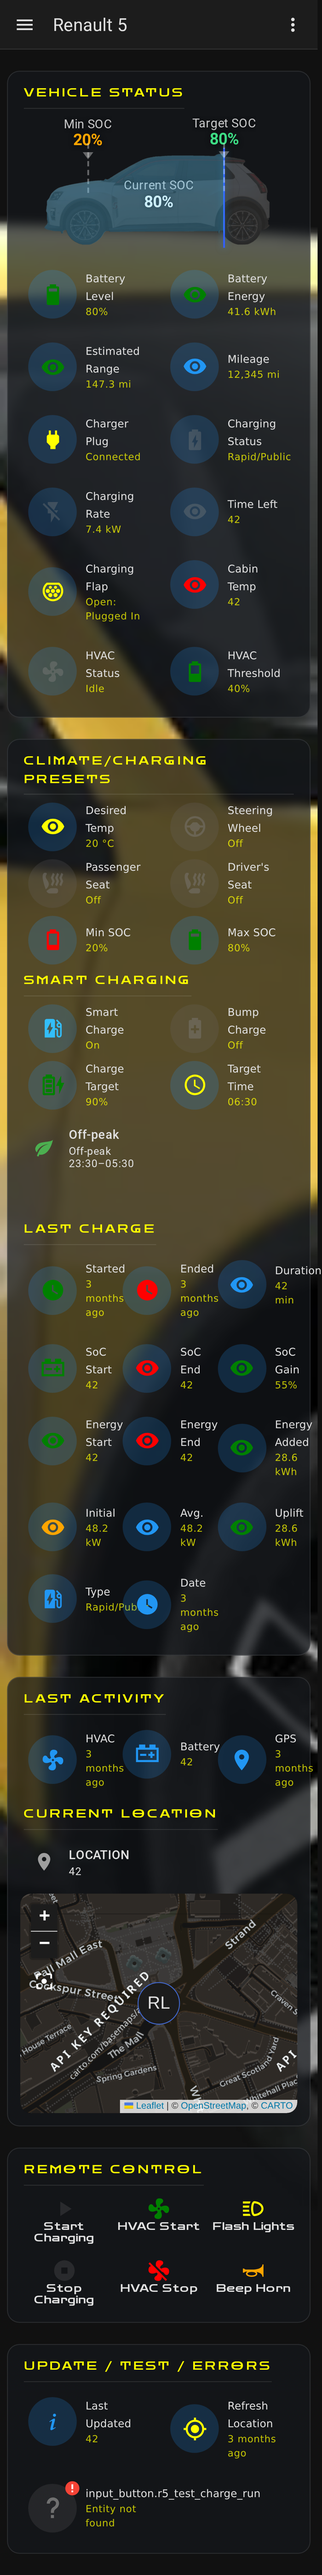
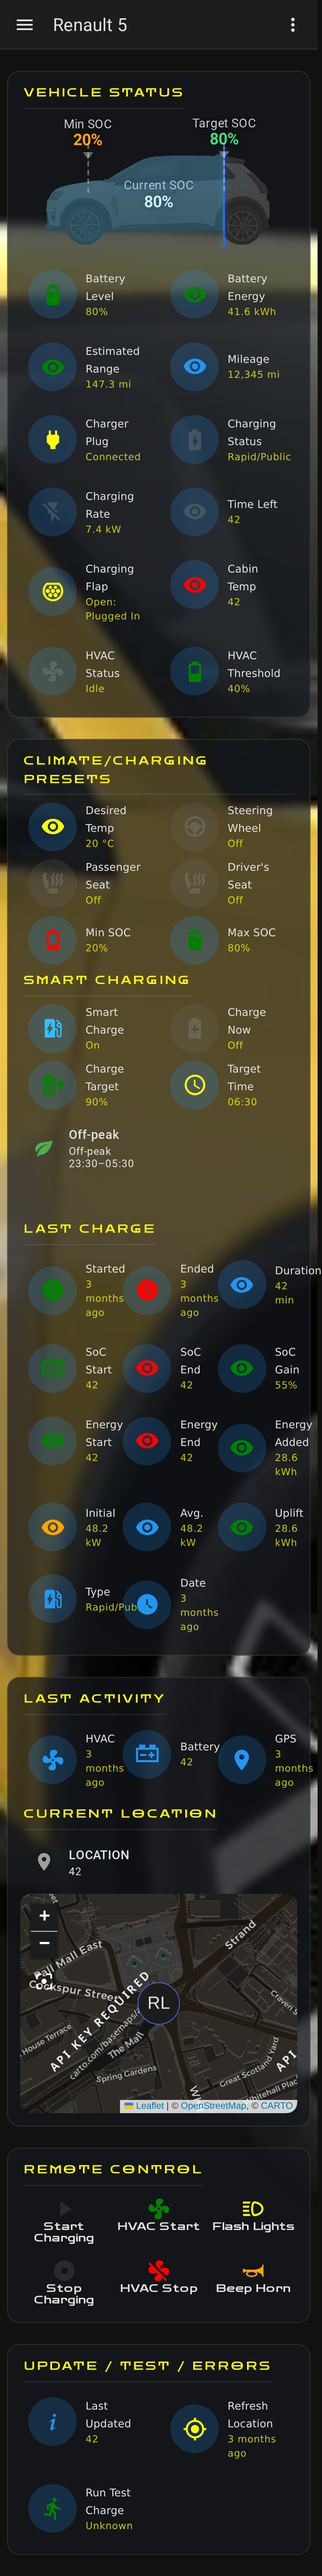
test(ui-tests): seed input_button/input_datetime for test-mode cards (#62)
* test(ui-tests): seed input_button/input_datetime for test-mode cards

The seeder's ENTITY_RE omitted the input_button and input_datetime
domains, so input_button.r5_test_charge_run — the always-visible
"Run Test Charge" button shown when the test panel is idle — was never
seeded, and the docs screenshots rendered it as an "Entity not found"
error card. Add both domains to the extractor and give the input_*
helpers idle defaults (input_boolean=off, input_button=unknown,
input_datetime=fixed) so the test panels stay hidden and the button
renders. Mirror of a290 #97. Validated: full UI harness green (0 issues
across the phone matrix), button now renders in place of the error card.

* chore: refresh dashboard screenshots [refresh-shots]

---------

diff --git a/ui-tests/seed.py b/ui-tests/seed.py
@@ -47,7 +47,8 @@ RESOURCES = [
 
 ENTITY_RE = re.compile(
     r"\b(sensor|binary_sensor|number|device_tracker|switch|button|climate|select|light|"
-    r"cover|lock|fan|person|zone|sun|weather|input_boolean|input_number|input_text)"
+    r"cover|lock|fan|person|zone|sun|weather|input_boolean|input_number|input_text|"
+    r"input_button|input_datetime)"
     r"\.[a-z0-9_]+\b")
 
 # Representative states for the A290 entities — realistic lengths/values to reproduce the
@@ -100,6 +101,11 @@ DEFAULTS = {
     "device_tracker": ("home", {"latitude": 51.5074, "longitude": -0.1278, "gps_accuracy": 8, "source_type": "gps"}),
     "switch": ("off", {}),
     "button": ("unknown", {}),
+    # Test-mode helpers (r5_test_* package): default idle so the panels stay hidden and the
+    # always-visible "Run Test Charge" button renders instead of a "not found" error card.
+    "input_boolean": ("off", {}),
+    "input_button": ("unknown", {}),
+    "input_datetime": ("2026-06-27 09:00:00", {"has_date": True, "has_time": True}),
 }
 
 
